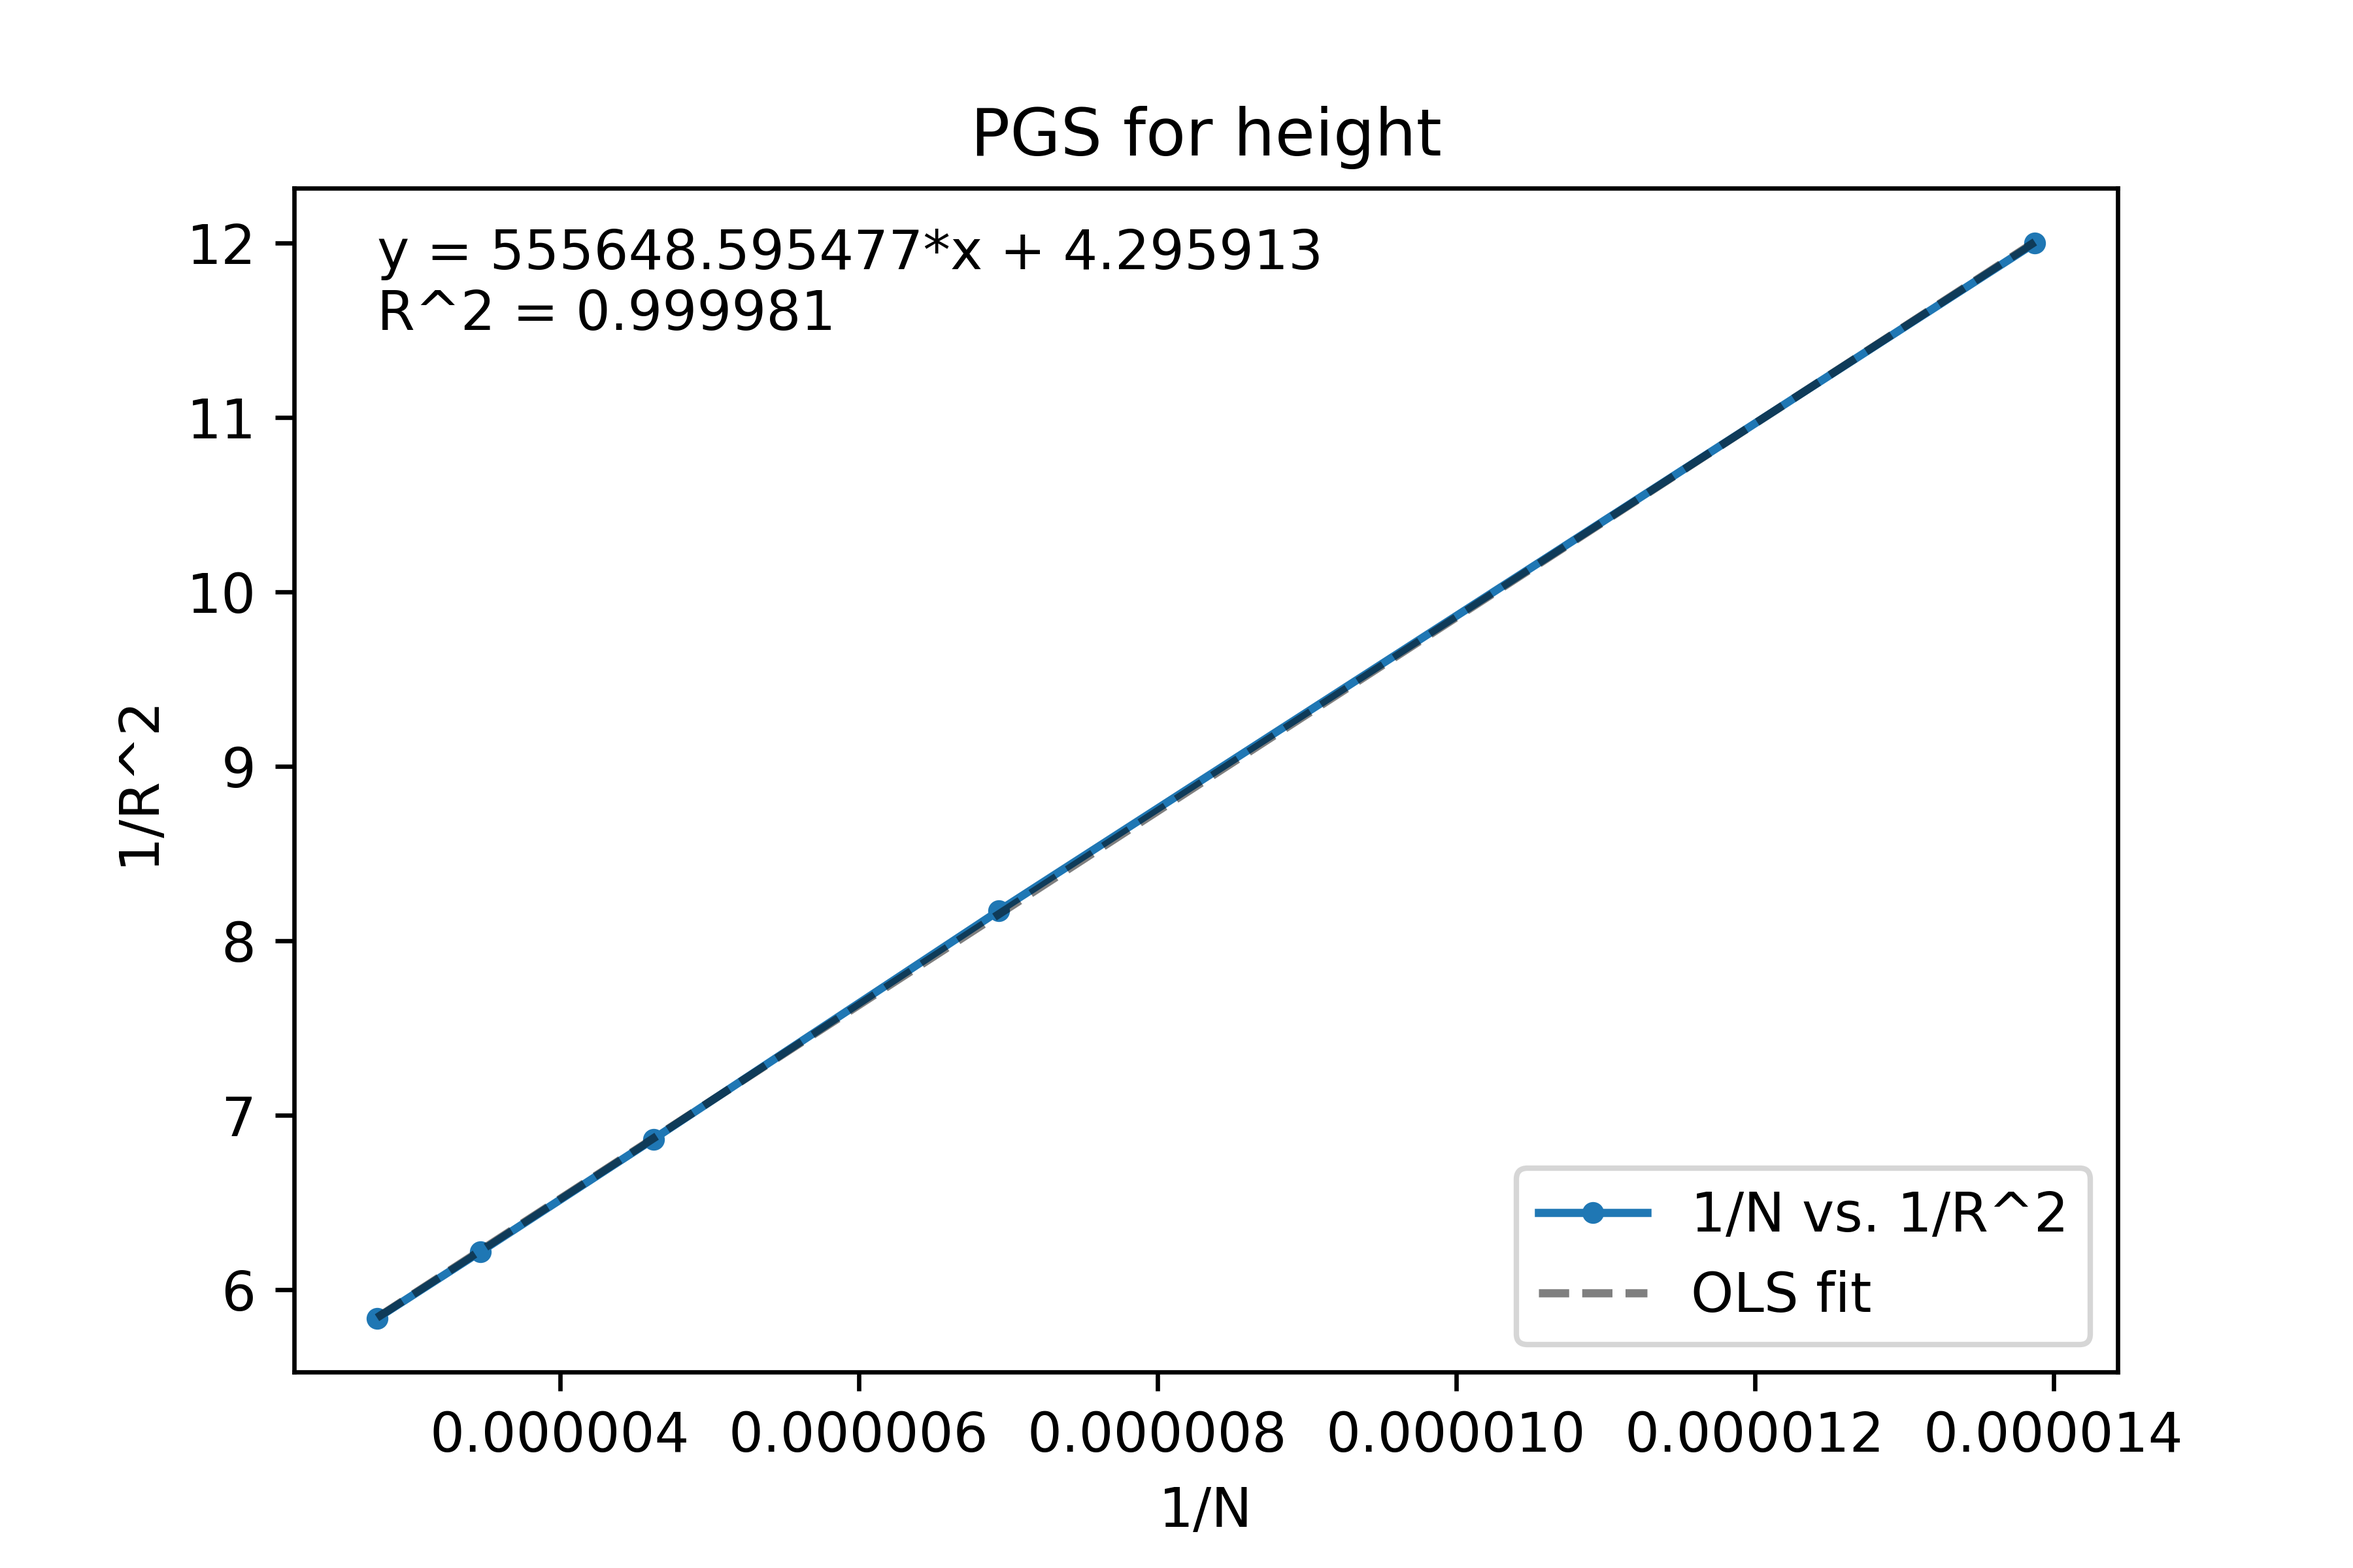
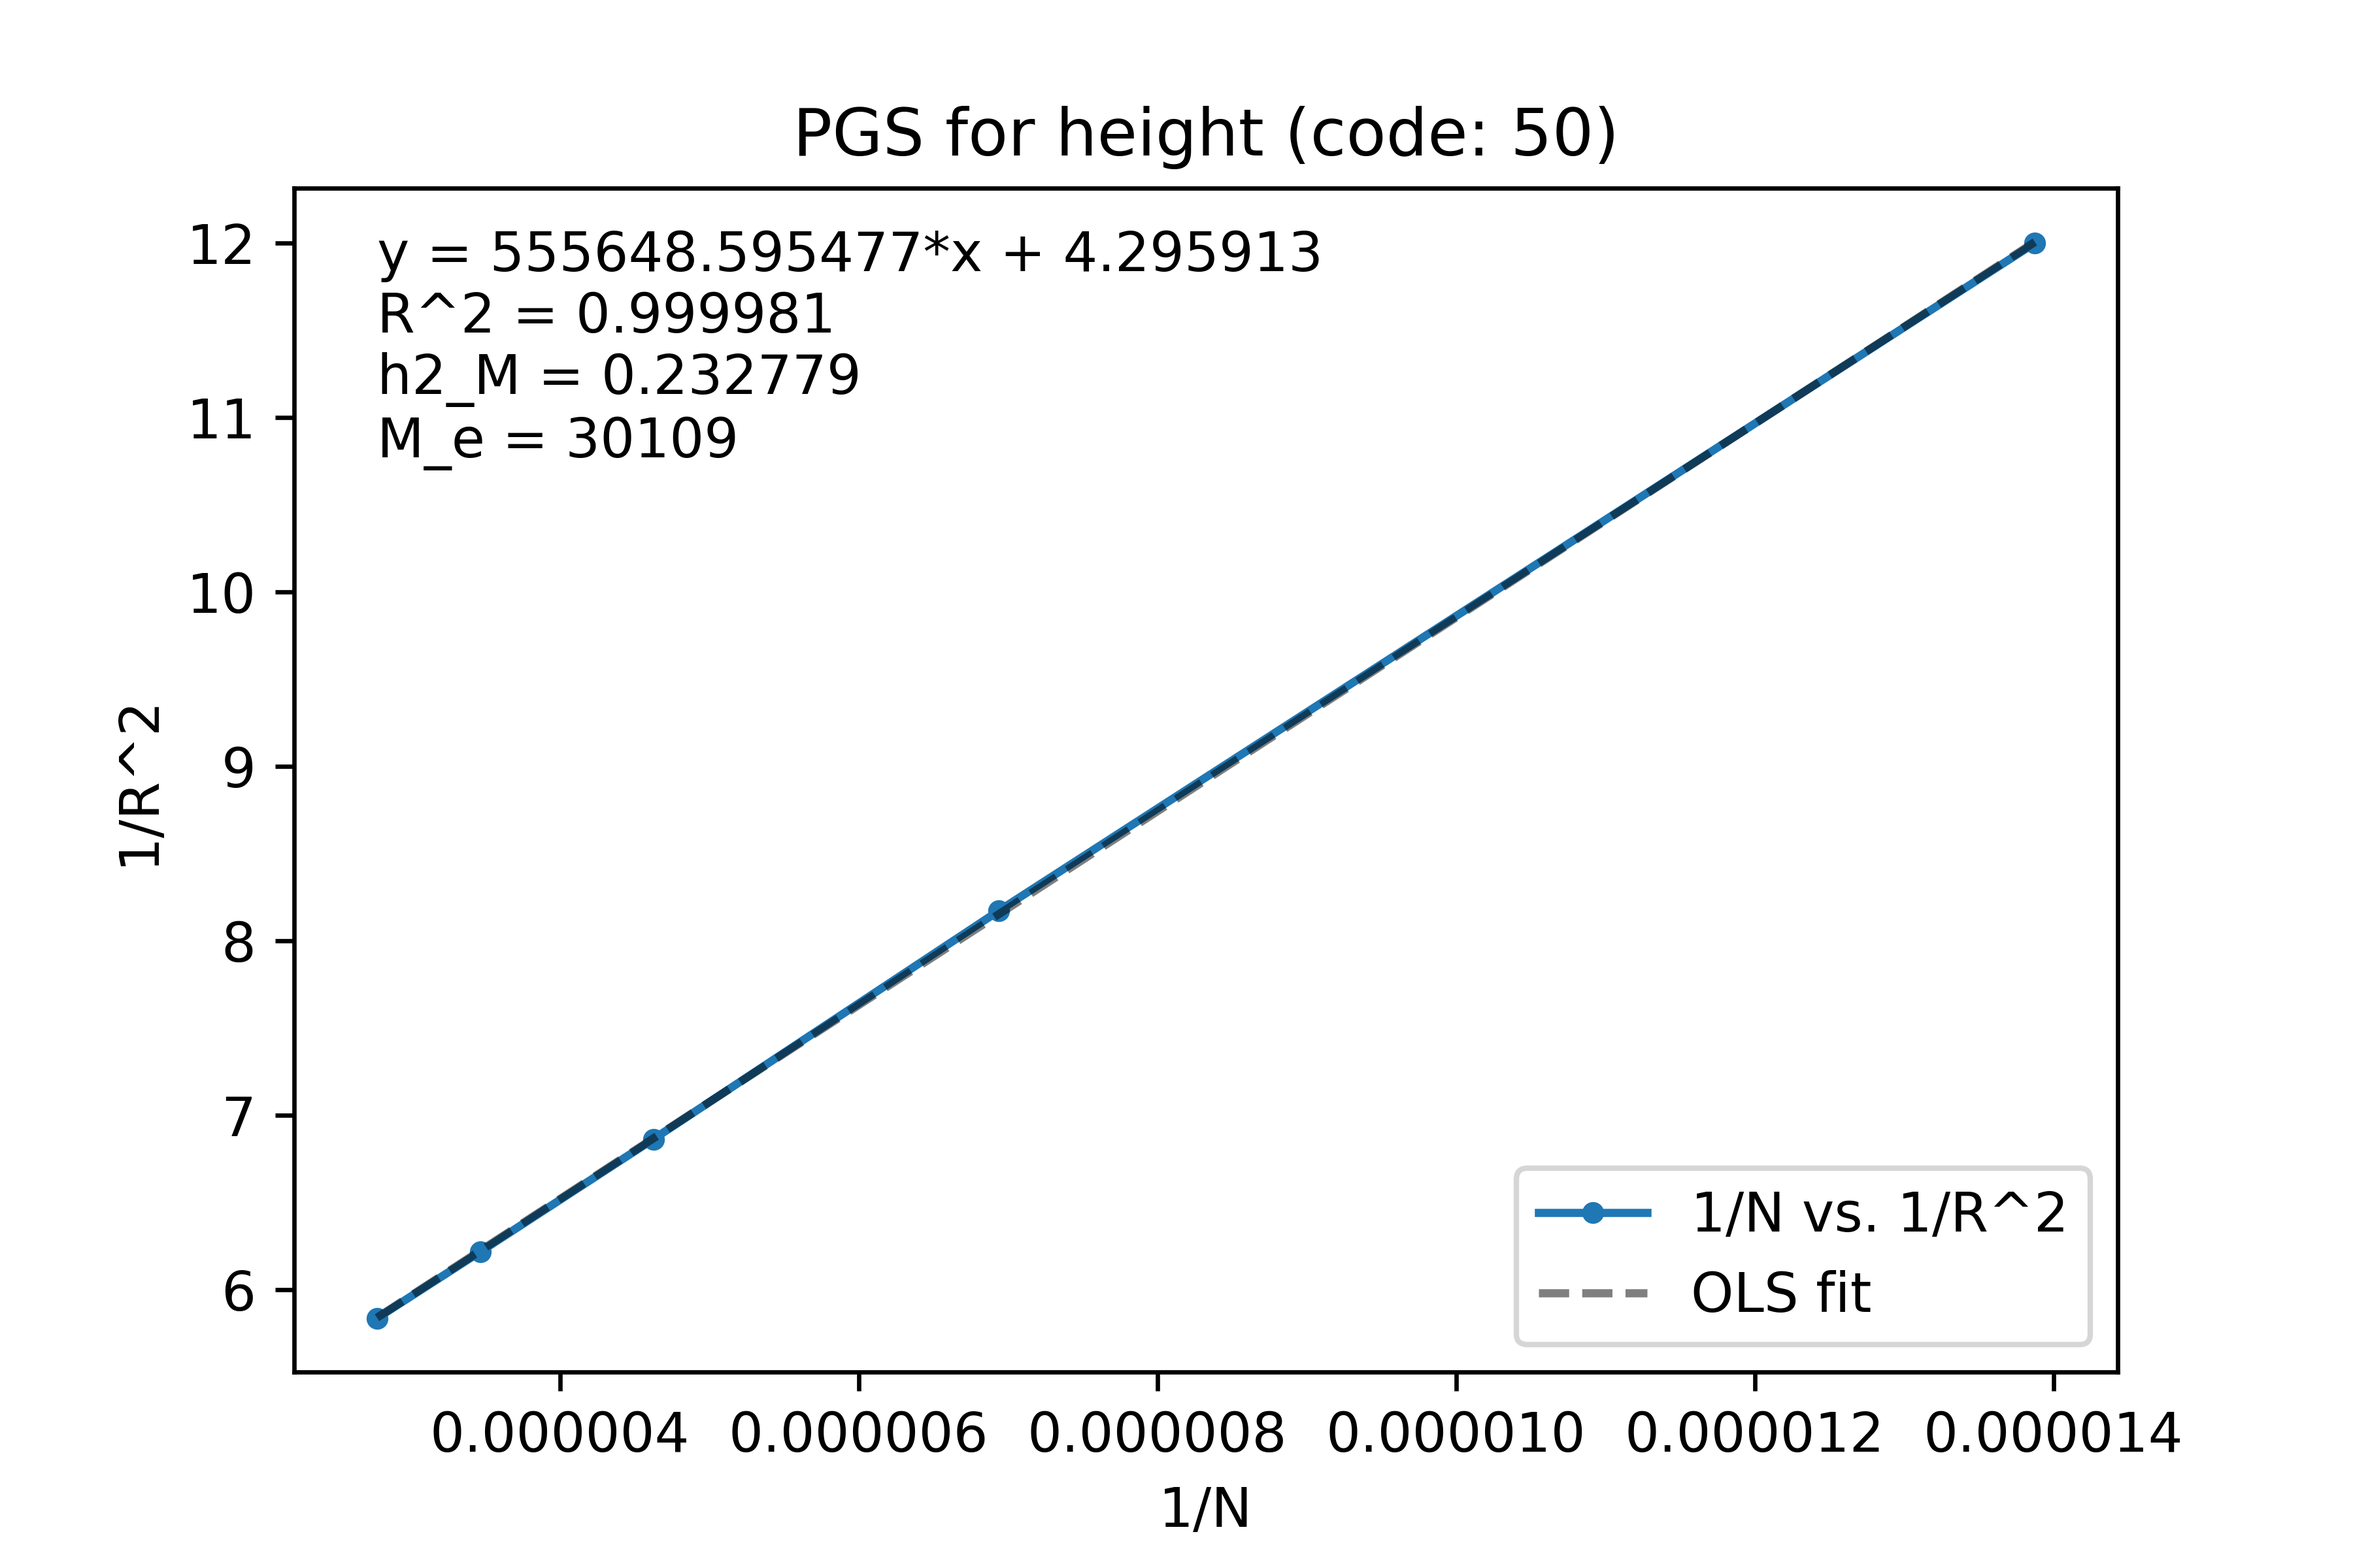
updated plotting

Changed region(s): [[0.1556, 0.1562, 0.3733, 0.3125], [0.3422, 0.0625, 0.6844, 0.125], [0.4667, 0.1562, 0.5289, 0.1875]]

diff --git a/plot_pgs_corr.py b/plot_pgs_corr.py
@@ -30,9 +30,19 @@ local_wd = '/Users/nbaya/Documents/lab/risk_gradients/'
 phen = '2443'
 frac_all_ls = [1]
 frac_cas_ls = [1]
-frac_con_ls = [0.2, 0.6, 0.8]
+frac_con_ls = [0.2, 0.4, 0.6, 0.8, 1]
+
+phen = '21001'
+frac_all_ls = [0.2, 0.4, 0.6, 0.8, 1]
+frac_cas_ls = [1]
+frac_con_ls = [1]
+
 
 phen = '50'
+frac_all_ls = [0.2, 0.4, 0.6, 0.8, 1]
+frac_cas_ls = [1]
+frac_con_ls = [1]
+
 
 n = phen_dict[phen][1]
 n_cas = phen_dict[phen][2]
@@ -42,49 +52,93 @@ df_path = f'{local_wd}{phen_dict[phen][0]}_pgs.tsv'
 
 if os.path.isfile(df_path):
     df = pd.read_csv(df_path,delimiter='\t')
-df = pd.DataFrame(columns=['phen','desc','n','n_new','n_cas','n_cas_new','r_all','pval_all','r_sub','pval_sub'])
-i = 0
-for frac_all in frac_all_ls:
-    n_new0 = int(n*frac_all)
-    for frac_cas in frac_cas_ls:
-        n_cas_new = int(n_cas*frac_cas)
-        for frac_con in frac_con_ls:
-            n_new = int(frac_con*(n_new0-n_cas_new)+n_cas_new)
-            print(f'{n_new}, {n_cas_new}')
-            if frac_con == 1 and frac_cas ==1:
-                suffix = f'.{phen}.n_{n_new}of{n}.seed_{seed}'
-            else:
-                suffix = f'.{phen}.n_{n_new}of{n}.n_cas_{n_cas_new}of{n_cas}.seed_{seed}'            
-            corr0 = subprocess.Popen(['gsutil','cat',f'{cloud_wd}corr{suffix}.txt'],stdout=subprocess.PIPE).communicate()[0]
-            corr1 = corr0.decode('utf-8')
-            corr2 = corr1.replace('\t','\n')
-            corr = corr2.split('\n')
-            r_all, pval_all, r_sub, pval_sub = float(corr[0]), float(corr[1]), float(corr[2]), float(corr[3])
-            df.loc[i] = [phen, phen_dict[phen][0], n, n_new, n_cas, n_cas_new, r_all, pval_all, r_sub, pval_sub]
-            i += 1
-            
+else:
+    df = pd.DataFrame(columns=['phen','desc','n','n_new','n_cas','n_cas_new','r_all','pval_all','r_sub','pval_sub'])
+    i = 0
+    for frac_all in frac_all_ls:
+        n_new0 = int(n*frac_all)
+        for frac_cas in frac_cas_ls:
+            n_cas_new = int(n_cas*frac_cas)
+            for frac_con in frac_con_ls:
+                n_new = int(frac_con*(n_new0-n_cas_new)+n_cas_new)
+                if frac_con == 1 and frac_cas ==1:
+                    suffix = f'.{phen}.n_{n_new}of{n}.seed_{seed}'
+                else:
+                    suffix = f'.{phen}.n_{n_new}of{n}.n_cas_{n_cas_new}of{n_cas}.seed_{seed}'            
+                corr0 = subprocess.Popen(['gsutil','cat',f'{cloud_wd}corr{suffix}.txt'],stdout=subprocess.PIPE).communicate()[0]
+                corr1 = corr0.decode('utf-8')
+                if corr1 == '':
+                    print(f'{cloud_wd}fcorr{suffix}.txt does not exist')
+                    corr = [float('nan')]*4
+                else:
+                    corr2 = corr1.replace('\t','\n')
+                    corr = [float(x) for x in corr2.split('\n')[:-1]]
+                r_all, pval_all, r_sub, pval_sub = float(corr[0]), float(corr[1]), float(corr[2]), float(corr[3])
+                df.loc[i] = [phen, phen_dict[phen][0], n, n_new, n_cas, n_cas_new, r_all, pval_all, r_sub, pval_sub]
+                i += 1
+    df['inv_n_new'] = 1/df.n_new
+    df['inv_R2'] = 1/df.r_all**2
+
+df = df.dropna()
+
 plt.plot(df.n_new/df.n, df.r_all**2,'.-')
 plt.xlabel('fraction of total population used in training set')
 plt.ylabel('R^2')
 plt.xlim([0,1])
-plt.ylim([0,0.2])
+plt.ylim([0,round(max(df.r_all**2)*1.1,2)])
 plt.title(f'Prediction accuracy of PGS for {phen_dict[phen][0]} (code: {phen})')
+plt.text(x=0.8,y=max(df.r_all**2)*0.05,s=f'N = {phen_dict[phen][1]}')
 fig=plt.gcf()
 fig.savefig(f'{local_wd}plots/{phen}_pgs_prediction.png',dpi=600)
+plt.close()
 
+if n_cas > 0:
+    K = (df.n_cas/df.n) #prevalence of trait in population
+    P = (df.n_cas_new/df.n_new) #prevalence of trait in training set
+    plt.plot(P/K, df.r_all**2,'.-')
+    plt.xlabel('P/K')
+    plt.ylabel('R^2')
+#    plt.xlim([0,1])
+    result = sm.OLS(endog=(df.r_all**2).tolist(),exog=sm.add_constant((P/K).tolist())).fit()
+    R2 = result.rsquared
+    b, a = result.params[0], result.params[1]
+    x = np.asarray([min(P/K),max(P/K)])
+    plt.plot(x,a*x+b,'k--',alpha=0.5)
+    plt.title(f'Prediction accuracy of PGS for {phen_dict[phen][0]} (code: {phen})')
+    plt.text(x=min(P/K)+0.*(max(P/K)-min(P/K)),y=min(df.r_all**2),
+             s=f'y = {round(a,6)}*x + {round(b,6)}\nR^2 = {round(R2,6)}\nK = {round(n_cas/n,6)}')
+    fig=plt.gcf()
+    plt.legend(['P/K vs. R^2','OLS fit'])
+    fig.savefig(f'{local_wd}plots/{phen}_pgs_P_div_K.png',dpi=600)
+    plt.close()
+    
+    plt.plot(P, df.r_all**2,'.-')
+    plt.xlabel('P (prevalence of trait in training set)')
+    plt.ylabel('R^2')
+    result = sm.OLS(endog=(df.r_all**2).tolist(),exog=sm.add_constant(P.tolist())).fit()
+    R2 = result.rsquared
+    b, a = result.params[0], result.params[1]
+    x = np.asarray([min(P),max(P)])
+    plt.plot(x,a*x+b,'k--',alpha=0.5)
+    plt.title(f'Prediction accuracy of PGS for {phen_dict[phen][0]} (code: {phen})')
+    plt.text(x=min(P),y=min(df.r_all**2),
+             s=f'y = {round(a,6)}*x + {round(b,6)}\nR^2 = {round(R2,6)}\nK = {round(n_cas/n,6)}')
+    fig=plt.gcf()
+    plt.legend(['P vs. R^2','OLS fit'])
+    fig.savefig(f'{local_wd}plots/{phen}_pgs_P.png',dpi=600)
+    plt.close()
 
-df['inv_n_new'] = 1/df.n_new
-df['inv_R2'] = 1/df.r_all**2
 plt.plot(df.inv_n_new, df.inv_R2,'.-')
 result = sm.OLS(df.inv_R2.tolist(),sm.add_constant(df.inv_n_new.tolist())).fit()
 R2 = result.rsquared
-b, m = result.params[0], result.params[1]
+b, a = result.params[0], result.params[1]
 x = np.asarray([min(df.inv_n_new),max(df.inv_n_new)])
-plt.plot(x,m*x+b,'k--',alpha=0.5)
+plt.plot(x,a*x+b,'k--',alpha=0.5)
 plt.title(f'PGS for {phen_dict[phen][0]} (code: {phen})')
 plt.ylabel('1/R^2')
 plt.xlabel('1/N')
-plt.text(x=min(df.inv_n_new), y=max(df.inv_R2)-0.1*(max(df.inv_R2)-min(df.inv_R2)),s=f'y = {round(m,6)}*x + {round(b,6)}\nR^2 = {round(R2,6)}')
+plt.text(x=min(df.inv_n_new), y=max(df.inv_R2)-0.2*(max(df.inv_R2)-min(df.inv_R2)),
+         s=f'y = {round(a,6)}*x + {round(b,6)}\nR^2 = {round(R2,6)}\nh2_M = {round(1/b,6)}\nM_e = {int(a/b**2)}')
 plt.legend(['1/N vs. 1/R^2','OLS fit'],loc='lower right')
 fig=plt.gcf()
 fig.savefig(f'{local_wd}plots/{phen}_pgs_prediction_linearized.png',dpi=600)

diff --git a/calc_scores.py b/calc_scores.py
@@ -111,6 +111,7 @@ if __name__=="__main__":
                     mt2 = mt1.annotate_rows(beta = gwas[mt1.rsid].eff)
                     
                     print('calculating PGS...')
+                    print(f'frac_all: {frac_all}\tfrac_all: {frac_cas}\tfrac_all: {frac_con}')
                     print('Time: {:%H:%M:%S (%Y-%b-%d)}'.format(dt.datetime.now()))
                     start_pgs = dt.datetime.now()
                     mt3 = mt2.annotate_cols(pgs = hl.agg.sum(mt2.dosage*mt2.beta))
@@ -132,9 +133,9 @@ if __name__=="__main__":
                     df1 = df[df.s.isin(iid.iid.tolist())]
                     r_sub, pval_sub = stats.pearsonr(df1.pgs,df1.phen)
                     print('\n****************************')
-                    print(f'PGS x phenotype correlation for all {n} individuals')
+                    print(f'PGS-phenotype correlation for all {n} individuals')
                     print(f'r = {r_all}, pval = {pval_all}')
-                    print(f'PGS x phenotype correlation for all {n_new} individuals')
+                    print(f'PGS-phenotype correlation for all {n_new} individuals')
                     print(f'r = {r_sub}, pval = {pval_sub}')
                     print('****************************')
                     array = [[r_all, pval_all],[r_sub, pval_sub]]
